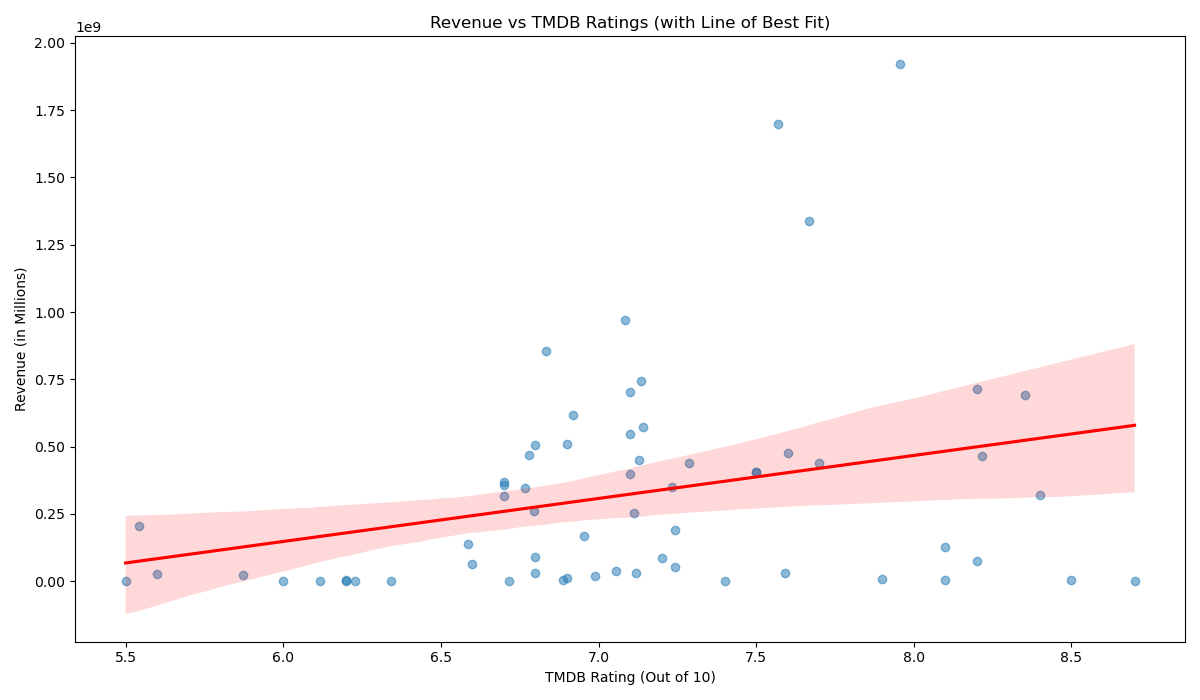
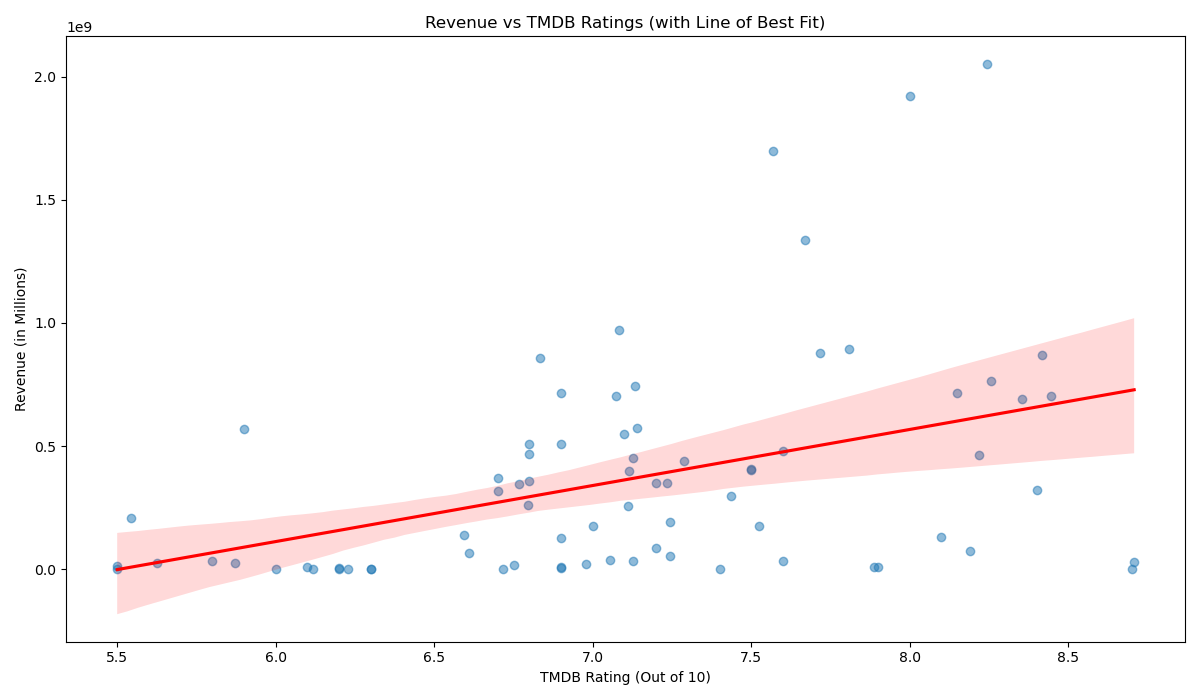
am i just doing this by myself

diff --git a/collectmoviedata.py b/collectmoviedata.py
@@ -16,9 +16,6 @@ tmdb.api_key = TMDB_API_KEY
 movie = Movie()
 discover = Discover()
 
-# Watchmode API key
-WM_API_KEY = 'MdMWcFQUQg5HXno0ctOJgGQEy4SNidU1QSfiYhc4'
-
 def initializedb():
     """
     initialize database with separate tables for OMDB and TMDB.
@@ -58,11 +55,15 @@ def fetch_tmdb_data():
     """
     conn = sqlite3.connect('movies.db')
     c = conn.cursor()
-    total_movies = 0  
-    max_movies = 120 # had to set a limit or else it would keep on going forever
-    page = 1          
+    total_movies = 0
+    batch_limit = 25  
+    page = 1
 
-    while total_movies < max_movies:
+    c.execute("SELECT COUNT(*) FROM tmdb_movies")
+    existing_movies = c.fetchone()[0]
+    print(f"Currently {existing_movies} movies in the TMDB table.")
+
+    while total_movies < batch_limit:
         try:
             movies = discover.discover_movies({
                 'sort_by': 'popularity.desc',
@@ -70,8 +71,12 @@ def fetch_tmdb_data():
             })
 
             for m in movies:
-                if total_movies >= max_movies:
+                if total_movies >= batch_limit:
                     break
+
+                c.execute("SELECT 1 FROM tmdb_movies WHERE tmdb_id = ?", (m.id,))
+                if c.fetchone():
+                    continue
 
                 try:
                     details = movie.details(m.id)
@@ -90,7 +95,7 @@ def fetch_tmdb_data():
                     print(f"Failed to fetch details for movie ID {m.id}: {e}")
 
             page += 1
-            time.sleep(1) 
+            time.sleep(1)
 
         except Exception as e:
             print(f"Error fetching data from TMDB API: {e}")
@@ -98,7 +103,8 @@ def fetch_tmdb_data():
 
     conn.commit()
     conn.close()
-    print(f"TMDB data fetch completed. Total movies fetched: {total_movies}")
+    print(f"TMDB data fetch completed. Total movies added this run: {total_movies}")
+
 
 
 def fetch_omdb_data():
@@ -107,7 +113,12 @@ def fetch_omdb_data():
     """
     conn = sqlite3.connect('movies.db')
     c = conn.cursor()
-    total_movies = 0 
+    total_movies = 0
+    batch_limit = 25
+
+    c.execute("SELECT COUNT(*) FROM omdb_movies")
+    existing_movies = c.fetchone()[0]
+    print(f"Currently {existing_movies} movies in the OMDB table.")
 
     c.execute('''
         SELECT tmdb_id, title, release_date FROM tmdb_movies 
@@ -135,11 +146,7 @@ def fetch_omdb_data():
                         VALUES (?, ?, ?, ?, ?, ?)''',
                               (tmdb_id, title, year, genre, int(runtime) if runtime.isdigit() else 0, box_office))
                     total_movies += 1
-                    #print(f"inserted omdb movie: {title} ({year})")
-                #else:
-                #    print(f"OMDB API returned no data for: {title} ({year})")
-            #else:
-            #    print(f"failed for {title}:  {response.status_code}")
+                    #print(f"Added OMDB movie: {title} ({year})")
 
             time.sleep(0.5)  
 
@@ -148,7 +155,7 @@ def fetch_omdb_data():
 
     conn.commit()
     conn.close()
-    print(f"OMDB fetch completed. Total movies fetched: {total_movies}") 
+    print(f"OMDB fetch completed. Total movies added this run: {total_movies}")
 
 def main():
     print("Initializing the database...")

diff --git a/visualizations.py b/visualizations.py
@@ -86,15 +86,12 @@ def plot_revenue_vs_rating(df):
     """
     Scatter plot of revenue vs. TMDB Ratings with line of best fit.
     """
-    # Ensure revenue is numeric
     df['revenue'] = pd.to_numeric(df['revenue'].replace('N/A', '0').replace('$', '').replace(',', ''), errors='coerce')
     
-    # Filter out rows with revenue <= 0 or missing ratings
     df = df[(df['revenue'] > 0) & (df['tmdb_rating'] > 0)]
 
     plt.figure(figsize=(12, 7))
 
-    # Scatter plot with regression line
     sns.regplot(data=df, x='tmdb_rating', y='revenue', scatter_kws={'alpha':0.5}, line_kws={'color':'red'})
 
     plt.title('Revenue vs TMDB Ratings (with Line of Best Fit)')

diff --git a/watchmode.py b/watchmode.py
@@ -1,0 +1,9 @@
+
+import os
+import sqlite3
+import requests
+import time
+import datetime
+
+# Watchmode API key
+WM_API_KEY = 'MdMWcFQUQg5HXno0ctOJgGQEy4SNidU1QSfiYhc4'
